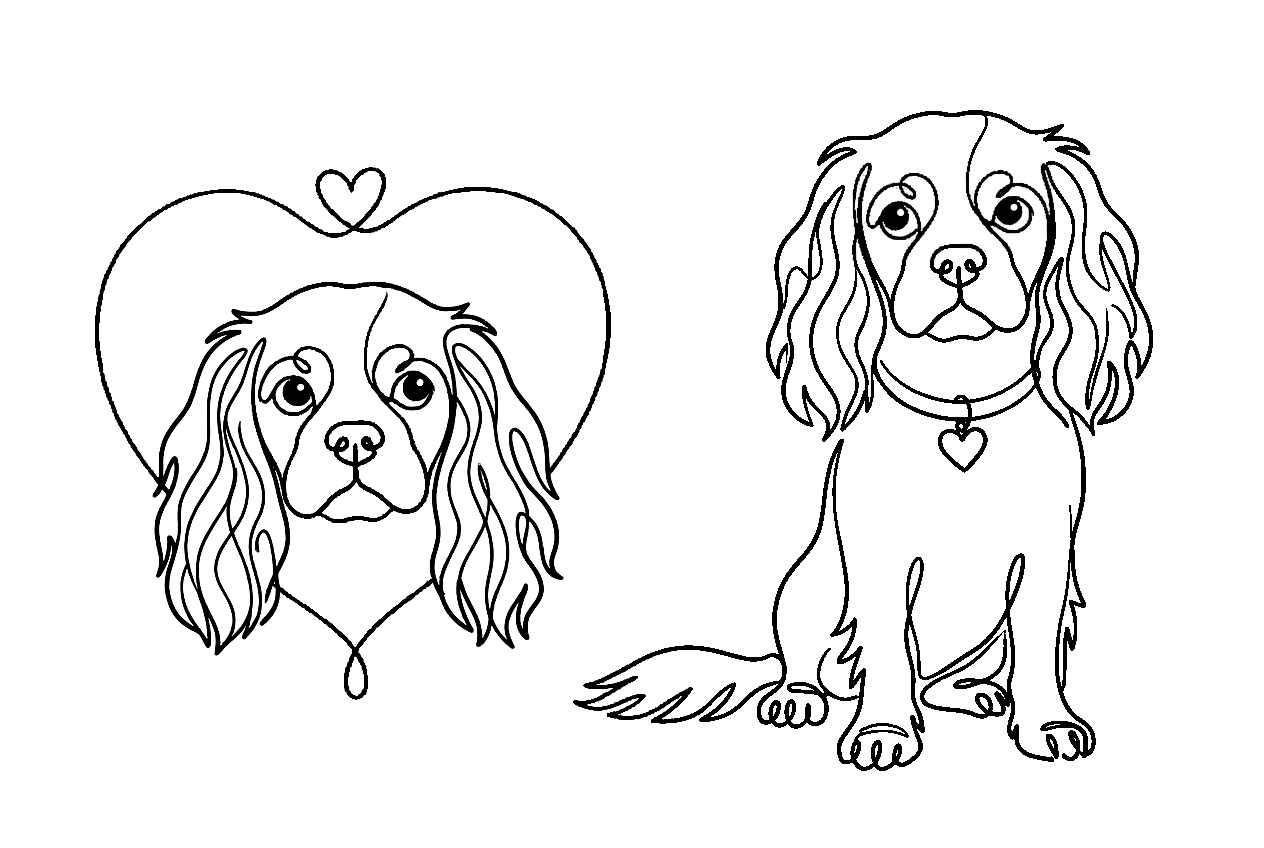
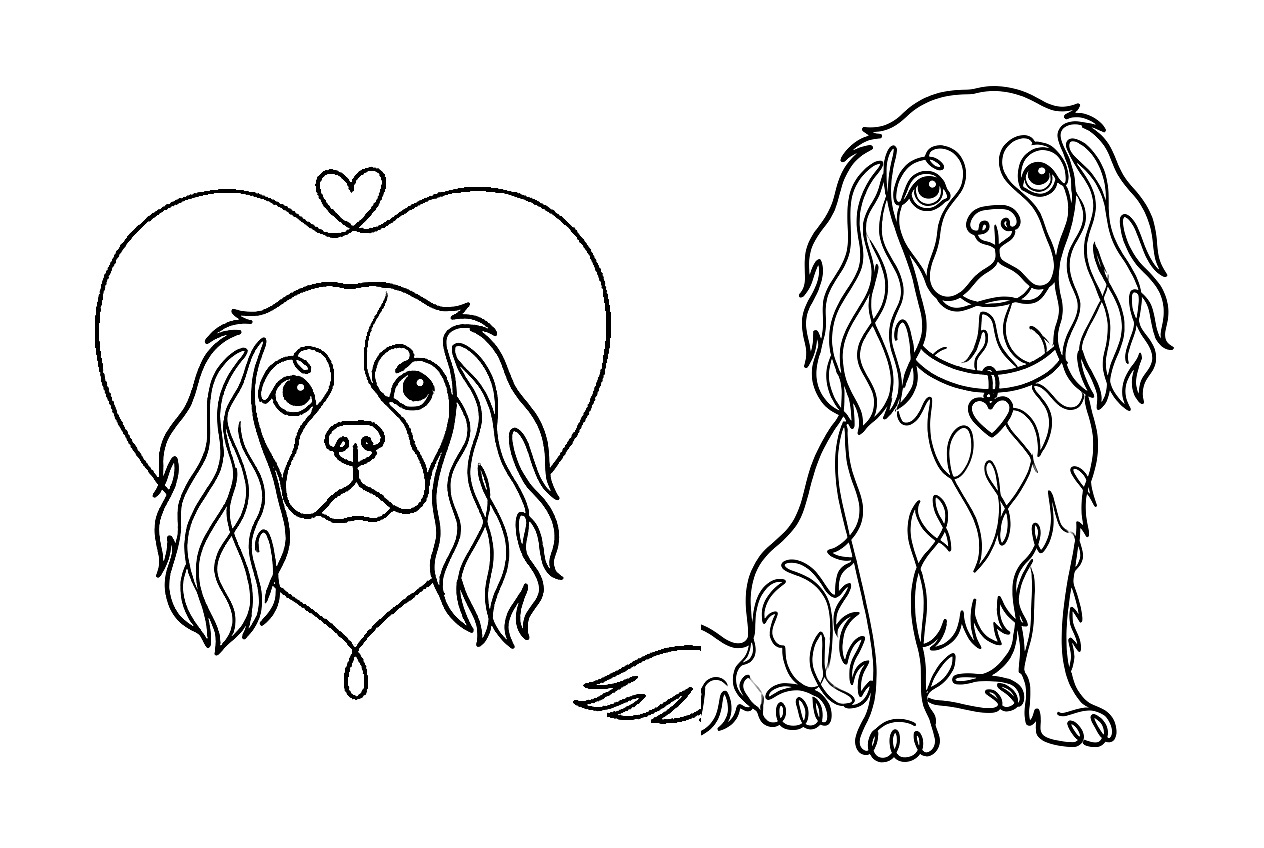
new breeds sets, cards, mini poodle cool jobs
Claude-Session: https://claude.ai/code/session_01AdsVvN9orQkgpWjS9rjafM

Changed region(s): [[0.5554, 0.092, 0.9256, 0.9198]]

diff --git a/scripts/make_cards.py b/scripts/make_cards.py
@@ -1,10 +1,10 @@
 import os,sys
 from PIL import Image, ImageDraw, ImageFont
 os.chdir('/home/claude/alphadog-styles')
-br="french_bulldog labrador_retriever golden_retriever german_shepherd dachshund poodle beagle rottweiler german_shorthaired_pointer bulldog cane_corso cavalier_king_charles_spaniel yorkshire_terrier australian_shepherd doberman_pinscher pembroke_welsh_corgi miniature_schnauzer boxer pomeranian bernese_mountain_dog shih_tzu great_dane boston_terrier chihuahua havanese".split()
+br="french_bulldog labrador_retriever golden_retriever german_shepherd dachshund poodle beagle rottweiler german_shorthaired_pointer bulldog cane_corso cavalier_king_charles_spaniel yorkshire_terrier australian_shepherd doberman_pinscher pembroke_welsh_corgi miniature_schnauzer boxer pomeranian bernese_mountain_dog shih_tzu great_dane boston_terrier chihuahua havanese siberian_husky pug american_pit_bull_terrier border_collie shiba_inu mini_poodle".split()
 out=sys.argv[1]; only=set(int(x) for x in sys.argv[2:]) if len(sys.argv)>2 else None
 def P(th,s,v):
-    for p in('p1','p2'):
+    for p in("p1","p2","p3"):
         f=f'out/sets/{th}_{p}/{s}__{v}.jpg'
         if os.path.exists(f): return f
 os.makedirs(out,exist_ok=True)

diff --git a/scripts/mont.py b/scripts/mont.py
@@ -1,0 +1,7 @@
+import cv2,sys,numpy as np
+# usage: mont.py out.png img1 img2 ... (2 columns, 632 wide)
+out=sys.argv[1]; fs=sys.argv[2:]
+t=[cv2.putText(cv2.resize(cv2.imread(f),(632,424)),f.split('/')[-1][:-4],(8,22),cv2.FONT_HERSHEY_SIMPLEX,.6,(0,0,200),2) for f in fs]
+if len(t)%2: t.append(np.full_like(t[0],255))
+rows=[np.hstack(t[i:i+2]) for i in range(0,len(t),2)]
+cv2.imwrite(out,np.vstack(rows))
